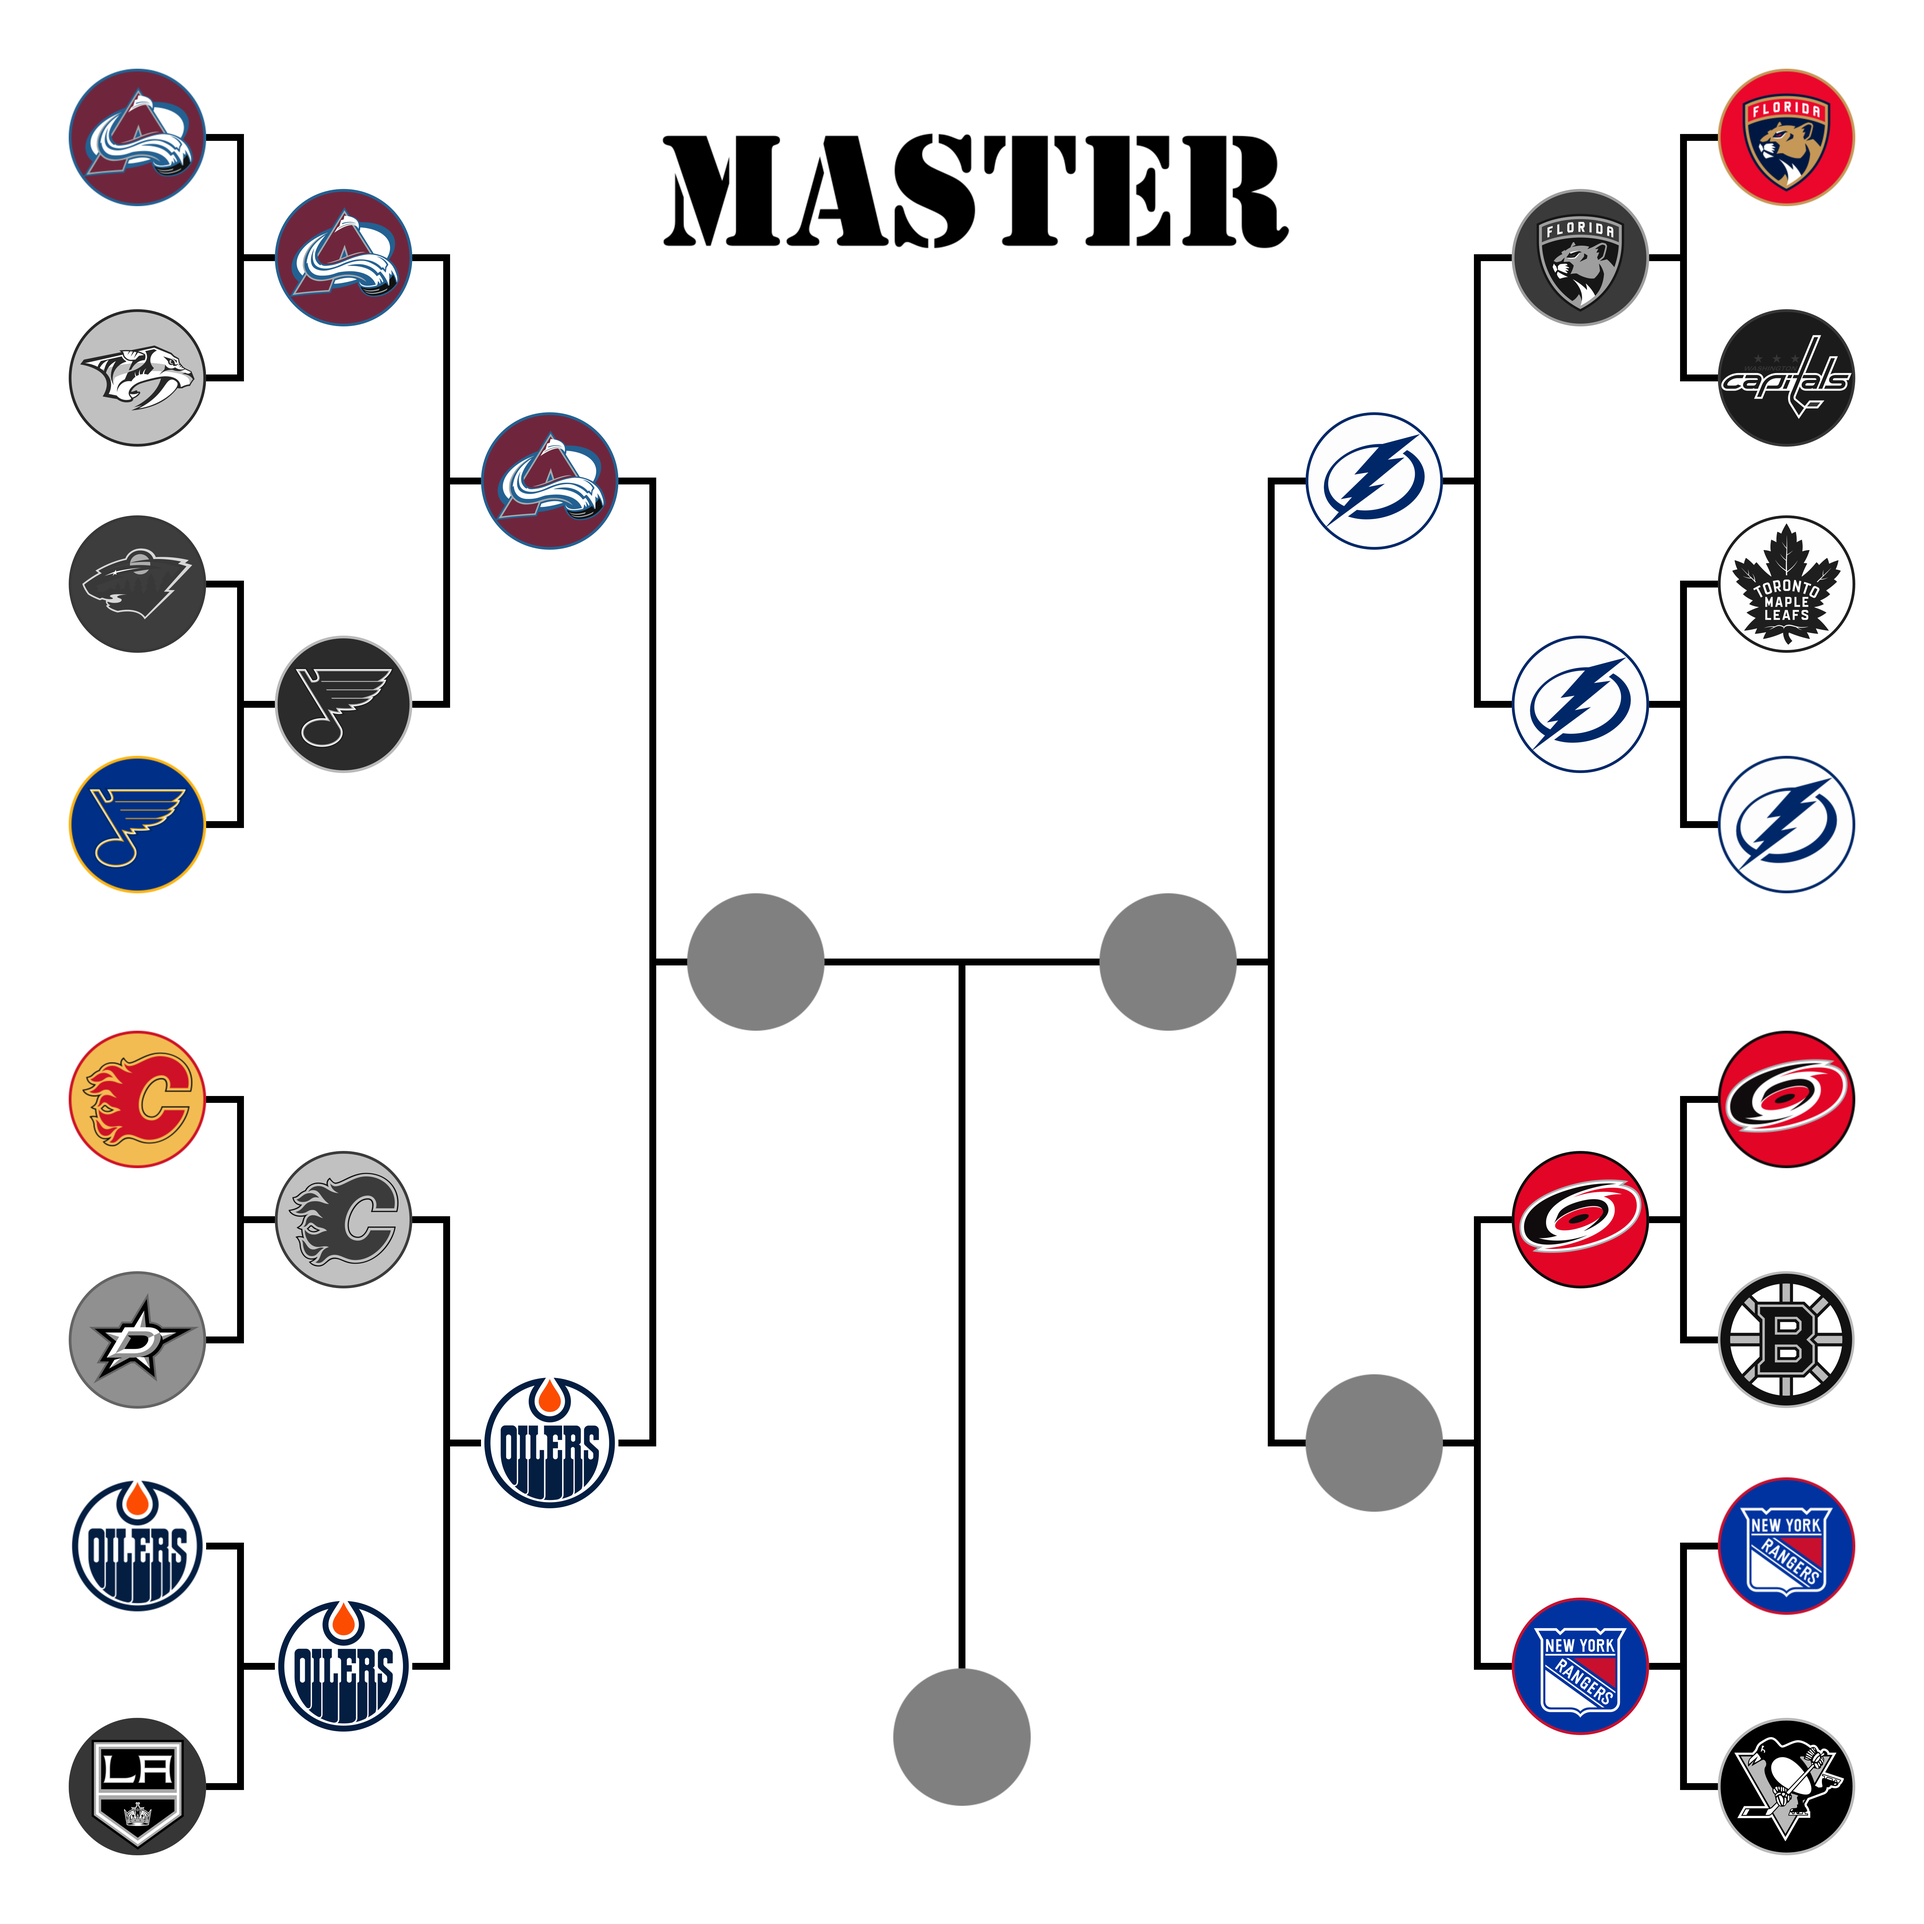
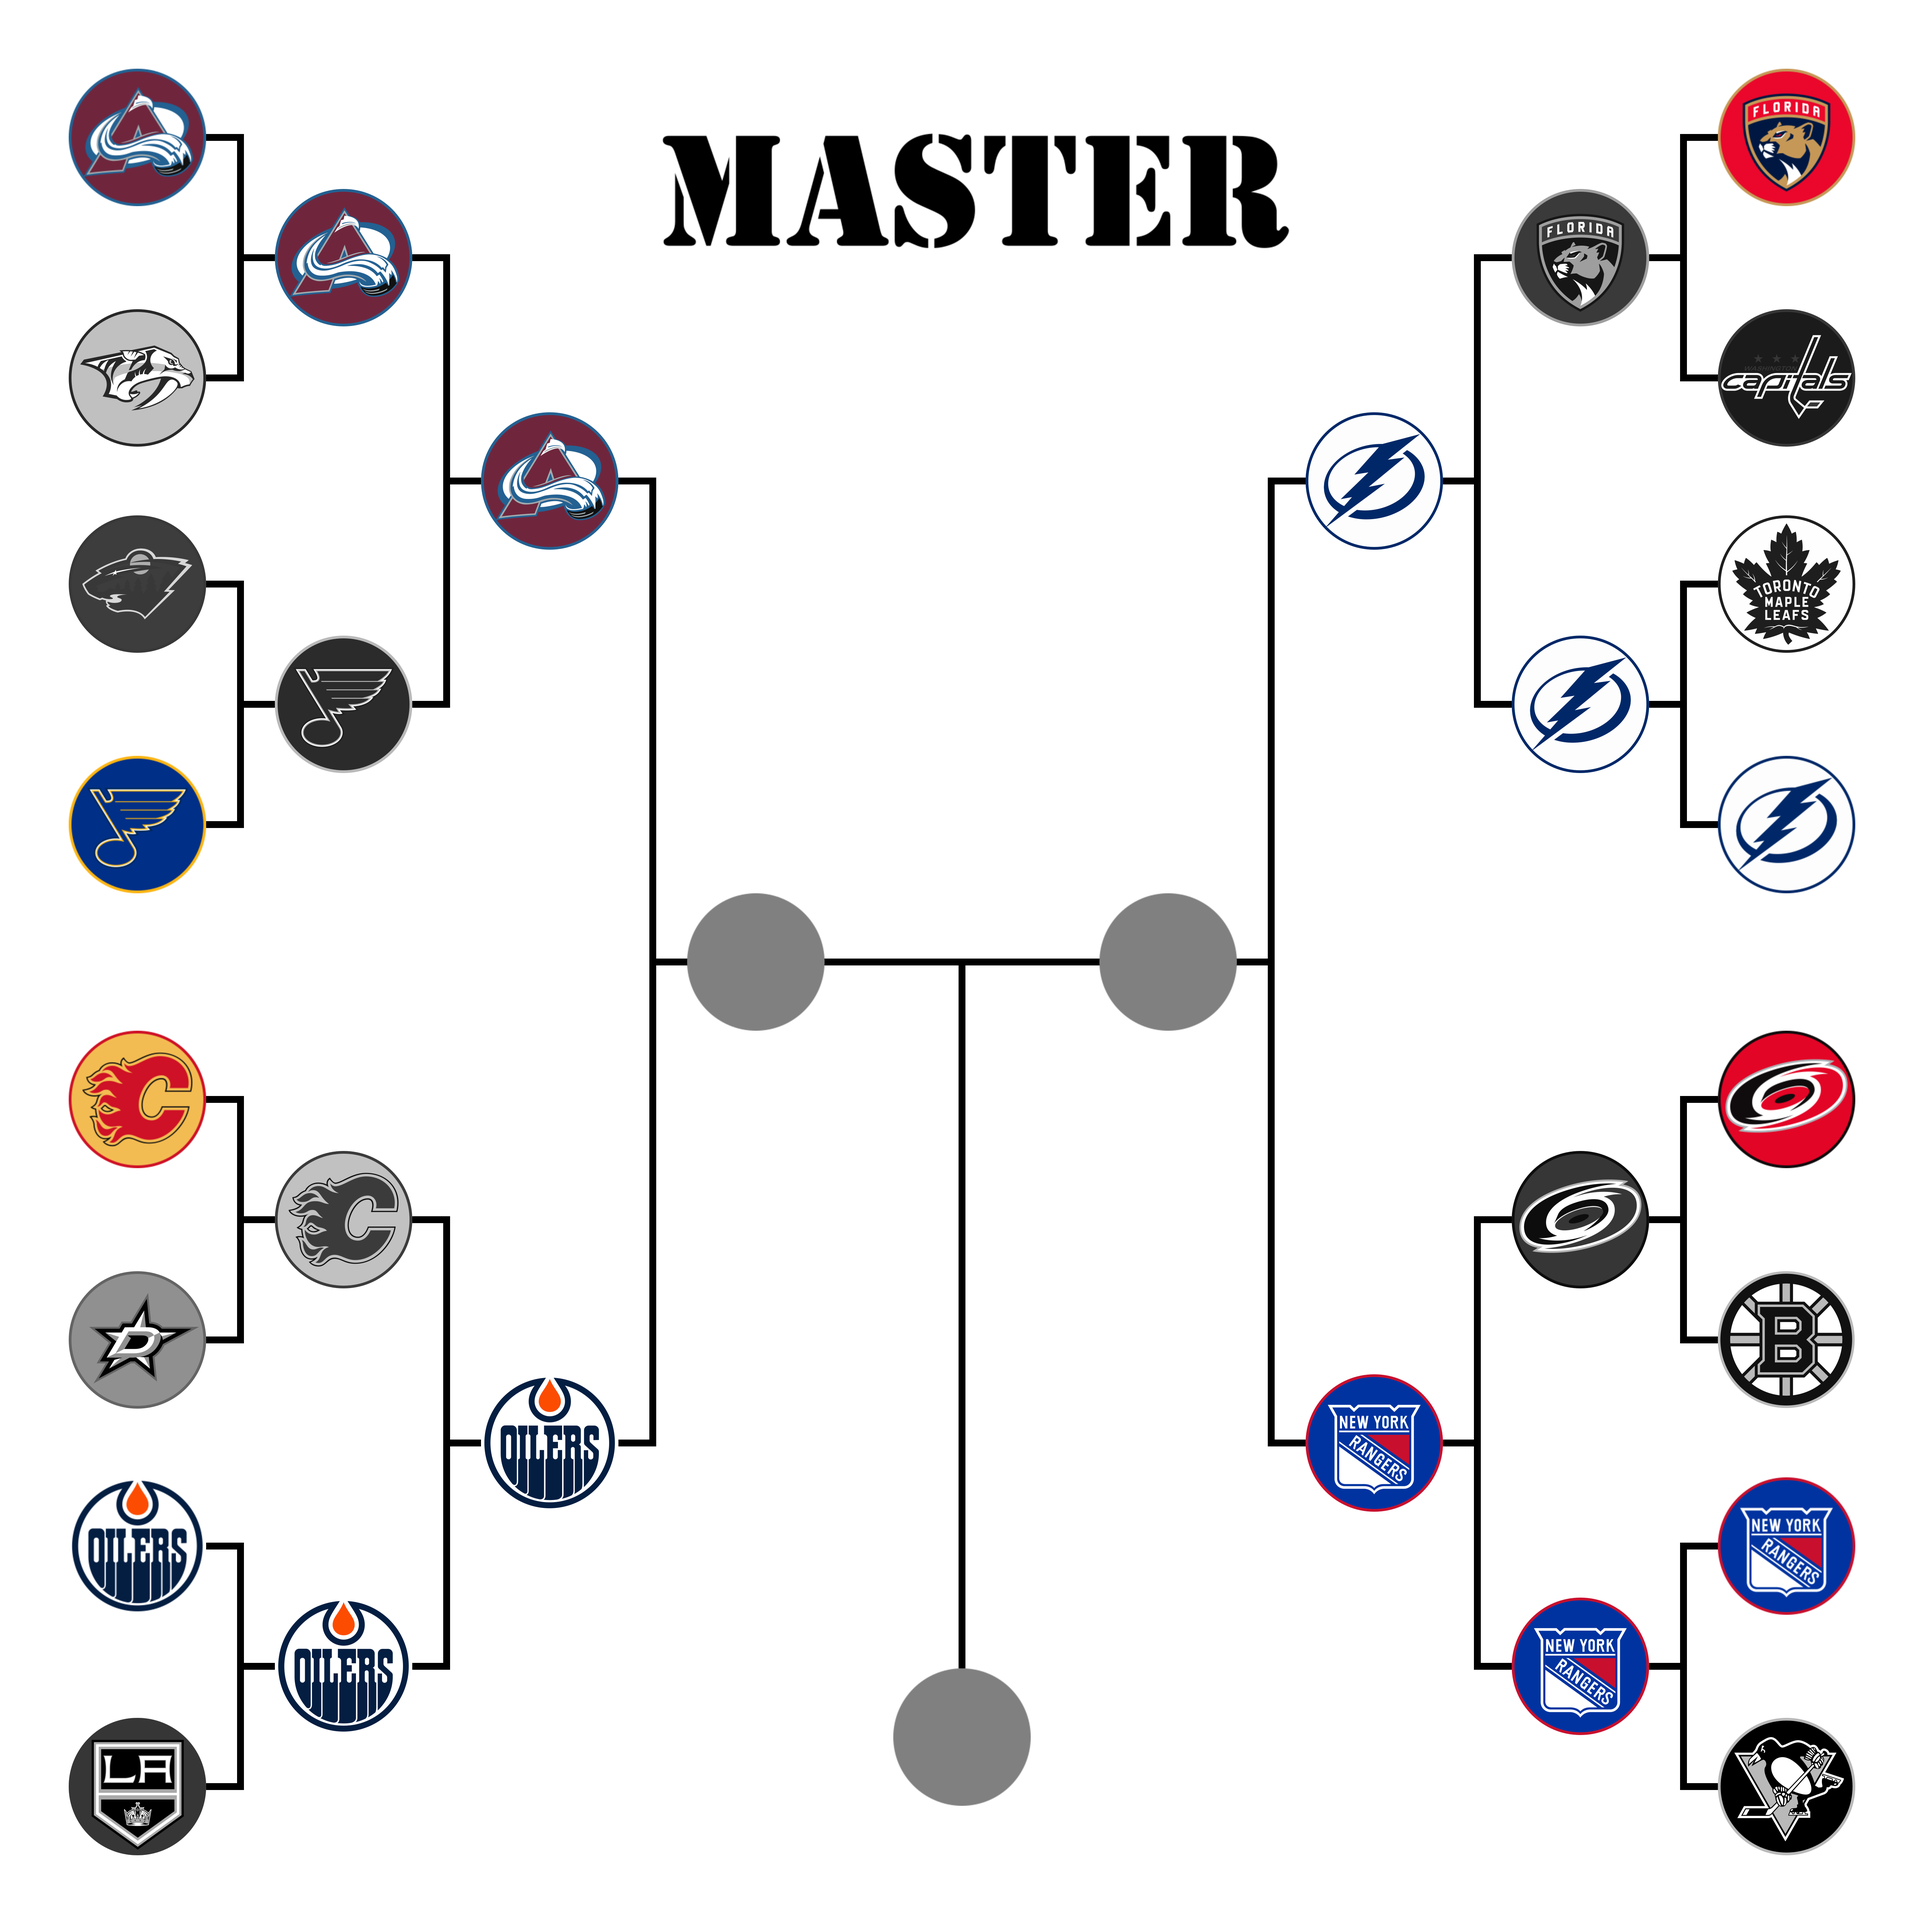
Updated Scores

Changed region(s): [[0.7812, 0.5938, 0.875, 0.6875], [0.6562, 0.7188, 0.75, 0.7812]]

diff --git a/UpdateFunctions/Scores.m b/UpdateFunctions/Scores.m
@@ -58,8 +58,8 @@ SCORES(:,:,11) = ...
 
 %% Series 12 Hurricanes/Rangers
 SCORES(:,:,12) = ...
-   [2 2 1 1 3 2 NaN   % Hurricanes
-    1 0 3 4 1 5 NaN]; % Rangers
+   [2 2 1 1 3 2 2   % Hurricanes
+    1 0 3 4 1 5 6]; % Rangers
 
 %% Series 13 /
 SCORES(:,:,13) = ...
@@ -68,8 +68,8 @@ SCORES(:,:,13) = ...
 
 %% Series 14 /
 SCORES(:,:,14) = ...
-   [NaN NaN NaN NaN NaN NaN NaN 
-    NaN NaN NaN NaN NaN NaN NaN];
+   [NaN NaN NaN NaN NaN NaN NaN   % Rangers
+    NaN NaN NaN NaN NaN NaN NaN]; % Lightning
 
 %% Series 15 /
 SCORES(:,:,15) = ...

diff --git a/OverallFunction.m b/OverallFunction.m
@@ -5,7 +5,7 @@ clear all; close all; clc;
 FLAGS.Perform_Complete_Initialization = 0;
 FLAGS.Series_Teams_Initialization = 1;
 FLAGS.Update_Brackets_and_Points = 1;
-FLAGS.Update_Graphics = 0;
+FLAGS.Update_Graphics = 1;
 FLAGS.Update_Markdown = 1;
 FLAGS.Run_Git_Commands = 0; %%%Not implemented
 

diff --git a/index.md b/index.md
@@ -141,19 +141,19 @@ Thank you everyone who submitted a bracket. I enjoyed making this page and I hop
     <td>1</td>
     <td style="background-color: green">3</td>
     <td>2</td>
-    <td> </td>
+    <td>2</td>
     <td>3</td>
   </tr>
   <tr>
-    <td>Rangers</td>
+    <td style="background-color: green">Rangers</td>
     <td>1</td>
     <td>0</td>
     <td style="background-color: green">3</td>
     <td style="background-color: green">4</td>
     <td>1</td>
     <td style="background-color: green">5</td>
-    <td> </td>
-    <td>3</td>
+    <td style="background-color: green">6</td>
+    <td>4</td>
   </tr>
 </table>
 
@@ -210,7 +210,7 @@ Thank you everyone who submitted a bracket. I enjoyed making this page and I hop
     <th>Total Wins</th>
   </tr>
   <tr>
-    <td></td>
+    <td>Rangers</td>
     <td> </td>
     <td> </td>
     <td> </td>
@@ -218,10 +218,10 @@ Thank you everyone who submitted a bracket. I enjoyed making this page and I hop
     <td> </td>
     <td> </td>
     <td> </td>
-    <td></td>
+    <td>0</td>
   </tr>
   <tr>
-    <td></td>
+    <td>Lightning</td>
     <td> </td>
     <td> </td>
     <td> </td>
@@ -229,7 +229,7 @@ Thank you everyone who submitted a bracket. I enjoyed making this page and I hop
     <td> </td>
     <td> </td>
     <td> </td>
-    <td></td>
+    <td>0</td>
   </tr>
 </table>
 
@@ -589,7 +589,7 @@ TPP: Total Points Possible
   <tr>
     <td>Allie</td>
     <td>65</td>
-    <td>140</td>
+    <td>115</td>
   </tr>
   <tr>
     <td>Allison</td>
@@ -599,12 +599,12 @@ TPP: Total Points Possible
   <tr>
     <td>Caroline</td>
     <td>75</td>
-    <td>300</td>
+    <td>225</td>
   </tr>
   <tr>
     <td>Corey</td>
     <td>90</td>
-    <td>265</td>
+    <td>240</td>
   </tr>
   <tr>
     <td>Daniel</td>
@@ -618,23 +618,23 @@ TPP: Total Points Possible
   </tr>
   <tr>
     <td>Gus</td>
-    <td>95</td>
+    <td>120</td>
     <td>270</td>
   </tr>
   <tr>
     <td>Isabella</td>
     <td>65</td>
-    <td>290</td>
+    <td>215</td>
   </tr>
   <tr>
     <td>Jackson</td>
     <td>85</td>
-    <td>260</td>
+    <td>235</td>
   </tr>
   <tr>
     <td>Jordan</td>
     <td>85</td>
-    <td>160</td>
+    <td>85</td>
   </tr>
   <tr>
     <td>Lydia</td>
@@ -649,22 +649,22 @@ TPP: Total Points Possible
   <tr>
     <td>Mike</td>
     <td>70</td>
-    <td>95</td>
+    <td>70</td>
   </tr>
   <tr>
     <td>Rob</td>
     <td>95</td>
-    <td>270</td>
+    <td>245</td>
   </tr>
   <tr>
     <td>Sarah</td>
     <td>105</td>
-    <td>280</td>
+    <td>255</td>
   </tr>
   <tr>
     <td>Tyler</td>
     <td>75</td>
-    <td>300</td>
+    <td>125</td>
   </tr>
   <tr>
     <td>Xander</td>
@@ -682,24 +682,24 @@ TPP: Total Points Possible
     <th>TPP</th>
   </tr>
   <tr>
-    <td>Sarah</td>
-    <td>105</td>
-    <td>280</td>
+    <td>Gus</td>
+    <td>120</td>
+    <td>270</td>
   </tr>
   <tr>
-    <td>Gus</td>
-    <td>95</td>
-    <td>270</td>
+    <td>Sarah</td>
+    <td>105</td>
+    <td>255</td>
   </tr>
   <tr>
     <td>Rob</td>
     <td>95</td>
-    <td>270</td>
+    <td>245</td>
   </tr>
   <tr>
     <td>Corey</td>
     <td>90</td>
-    <td>265</td>
+    <td>240</td>
   </tr>
   <tr>
     <td>Megan</td>
@@ -709,12 +709,12 @@ TPP: Total Points Possible
   <tr>
     <td>Jackson</td>
     <td>85</td>
-    <td>260</td>
+    <td>235</td>
   </tr>
   <tr>
     <td>Jordan</td>
     <td>85</td>
-    <td>160</td>
+    <td>85</td>
   </tr>
   <tr>
     <td>Felix</td>
@@ -724,17 +724,17 @@ TPP: Total Points Possible
   <tr>
     <td>Caroline</td>
     <td>75</td>
-    <td>300</td>
-  </tr>
-  <tr>
-    <td>Tyler</td>
-    <td>75</td>
-    <td>300</td>
+    <td>225</td>
   </tr>
   <tr>
     <td>Lydia</td>
     <td>75</td>
     <td>225</td>
+  </tr>
+  <tr>
+    <td>Tyler</td>
+    <td>75</td>
+    <td>125</td>
   </tr>
   <tr>
     <td>Xander</td>
@@ -744,17 +744,17 @@ TPP: Total Points Possible
   <tr>
     <td>Mike</td>
     <td>70</td>
-    <td>95</td>
+    <td>70</td>
   </tr>
   <tr>
     <td>Isabella</td>
     <td>65</td>
-    <td>290</td>
+    <td>215</td>
   </tr>
   <tr>
     <td>Allie</td>
     <td>65</td>
-    <td>140</td>
+    <td>115</td>
   </tr>
   <tr>
     <td>Allison</td>
@@ -778,44 +778,24 @@ TPP: Total Points Possible
     <th>TPP</th>
   </tr>
   <tr>
-    <td>Caroline</td>
-    <td>75</td>
-    <td>300</td>
-  </tr>
-  <tr>
-    <td>Tyler</td>
-    <td>75</td>
-    <td>300</td>
-  </tr>
-  <tr>
-    <td>Isabella</td>
-    <td>65</td>
-    <td>290</td>
+    <td>Gus</td>
+    <td>120</td>
+    <td>270</td>
   </tr>
   <tr>
     <td>Sarah</td>
     <td>105</td>
-    <td>280</td>
-  </tr>
-  <tr>
-    <td>Gus</td>
-    <td>95</td>
-    <td>270</td>
+    <td>255</td>
   </tr>
   <tr>
     <td>Rob</td>
     <td>95</td>
-    <td>270</td>
+    <td>245</td>
   </tr>
   <tr>
     <td>Corey</td>
     <td>90</td>
-    <td>265</td>
-  </tr>
-  <tr>
-    <td>Jackson</td>
-    <td>85</td>
-    <td>260</td>
+    <td>240</td>
   </tr>
   <tr>
     <td>Megan</td>
@@ -823,9 +803,19 @@ TPP: Total Points Possible
     <td>240</td>
   </tr>
   <tr>
+    <td>Jackson</td>
+    <td>85</td>
+    <td>235</td>
+  </tr>
+  <tr>
     <td>Felix</td>
     <td>80</td>
     <td>230</td>
+  </tr>
+  <tr>
+    <td>Caroline</td>
+    <td>75</td>
+    <td>225</td>
   </tr>
   <tr>
     <td>Lydia</td>
@@ -833,19 +823,19 @@ TPP: Total Points Possible
     <td>225</td>
   </tr>
   <tr>
+    <td>Isabella</td>
+    <td>65</td>
+    <td>215</td>
+  </tr>
+  <tr>
     <td>Allison</td>
     <td>45</td>
     <td>195</td>
   </tr>
   <tr>
-    <td>Jordan</td>
-    <td>85</td>
-    <td>160</td>
-  </tr>
-  <tr>
-    <td>Allie</td>
-    <td>65</td>
-    <td>140</td>
+    <td>Tyler</td>
+    <td>75</td>
+    <td>125</td>
   </tr>
   <tr>
     <td>Xander</td>
@@ -853,9 +843,19 @@ TPP: Total Points Possible
     <td>125</td>
   </tr>
   <tr>
+    <td>Allie</td>
+    <td>65</td>
+    <td>115</td>
+  </tr>
+  <tr>
+    <td>Jordan</td>
+    <td>85</td>
+    <td>85</td>
+  </tr>
+  <tr>
     <td>Mike</td>
     <td>70</td>
-    <td>95</td>
+    <td>70</td>
   </tr>
   <tr>
     <td>Daniel</td>
